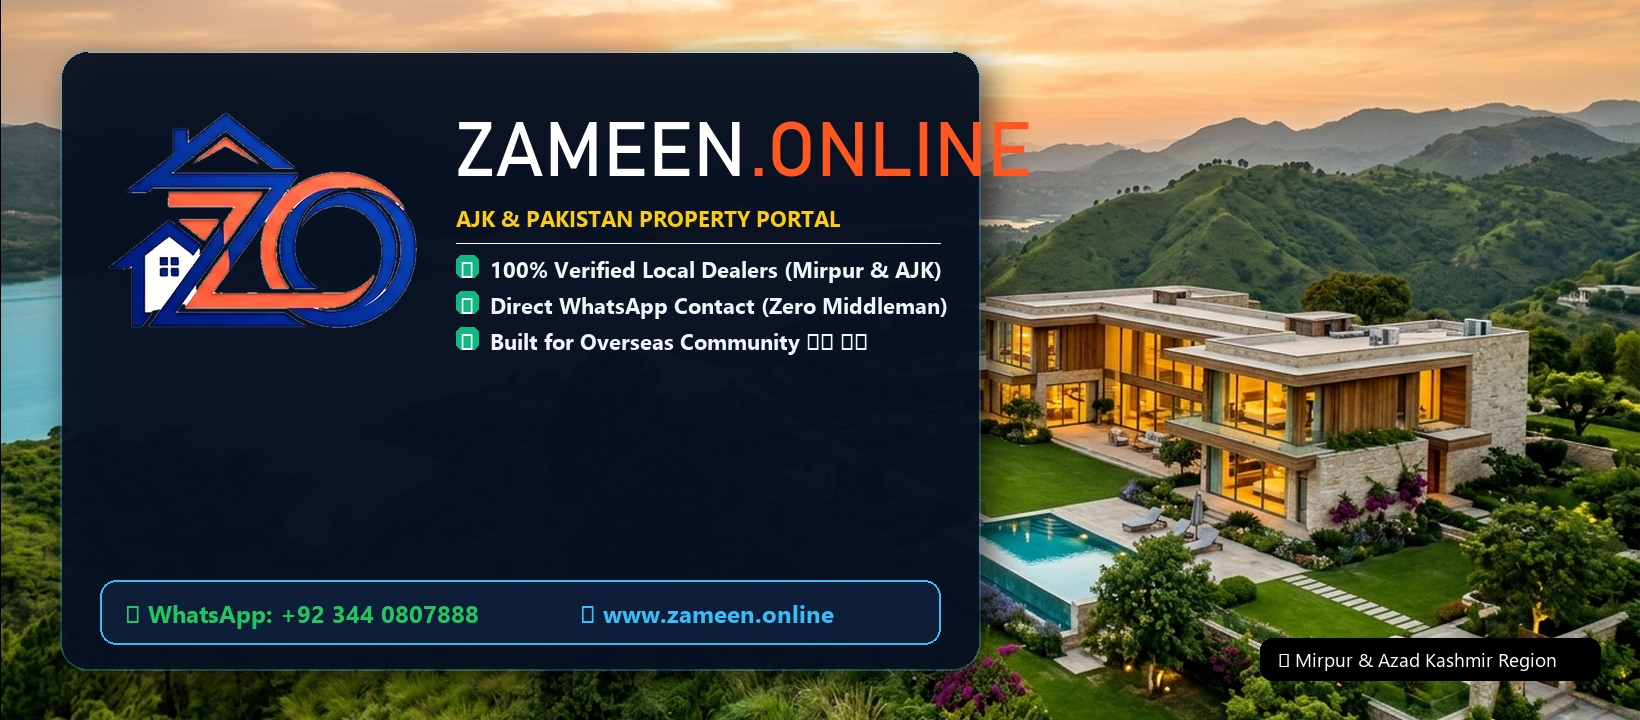
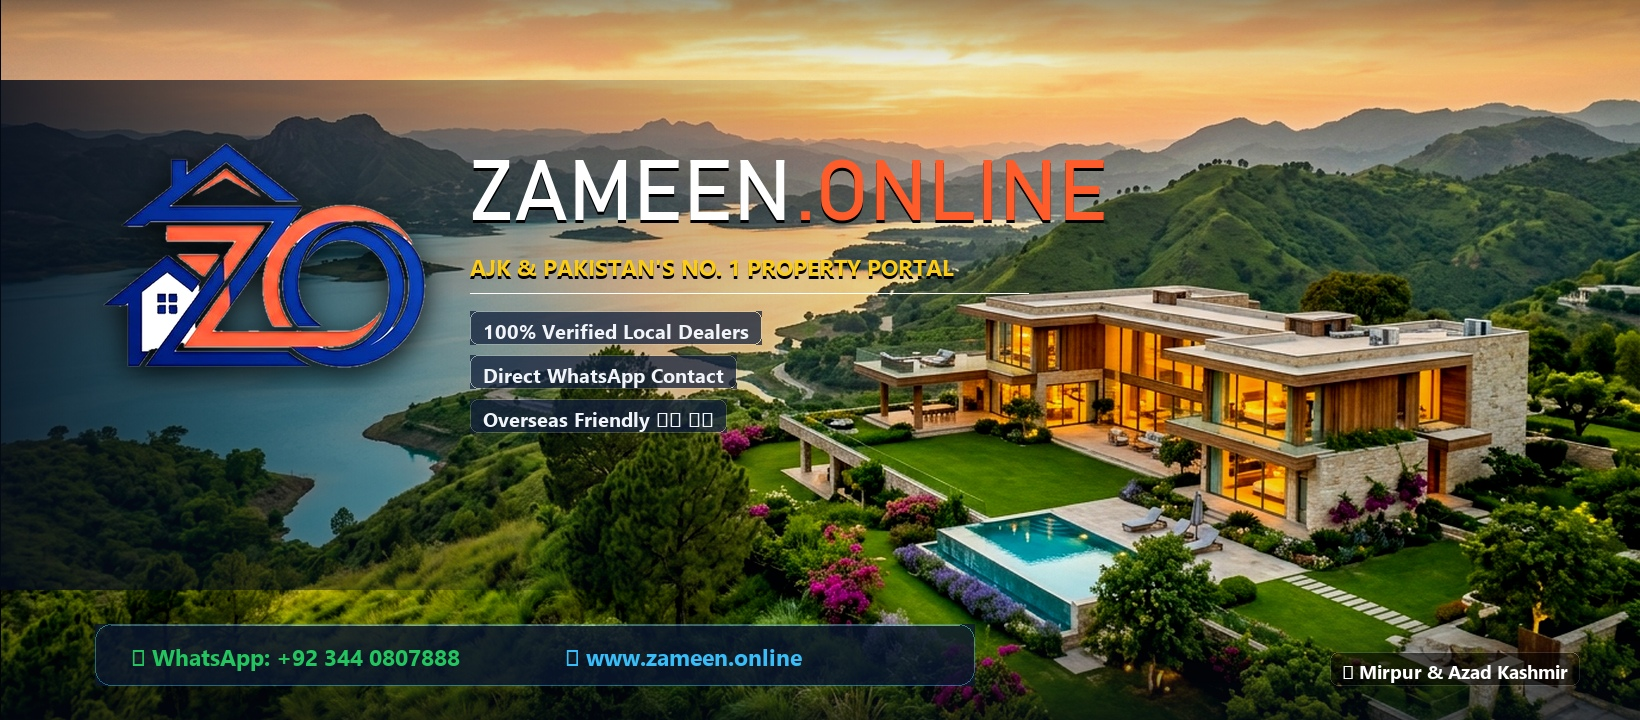
Enhance Facebook Cover with expert graphic design: seamless cinematic atmosphere, pristine typography, executive variant, and live preview studio

diff --git a/facebook-cover-preview.html b/facebook-cover-preview.html
@@ -1,0 +1,301 @@
+<!DOCTYPE html>
+<html lang="en">
+<head>
+  <meta charset="UTF-8">
+  <meta name="viewport" content="width=device-width, initial-scale=1.0">
+  <title>Zameen.online — Facebook Cover Preview Studio</title>
+  <link rel="icon" href="assets/img/favicon.svg" type="image/svg+xml">
+  <link rel="preconnect" href="https://fonts.googleapis.com">
+  <link rel="preconnect" href="https://fonts.gstatic.com" crossorigin>
+  <link href="https://fonts.googleapis.com/css2?family=Plus+Jakarta+Sans:wght@400;600;700;800;900&display=swap" rel="stylesheet">
+  <style>
+    :root {
+      --primary: #104396;
+      --accent: #f16544;
+      --dark: #080f1d;
+      --surface: #0f172a;
+      --border: #1e293b;
+      --text: #f8fafc;
+      --muted: #94a3b8;
+    }
+    * { box-sizing: border-box; margin: 0; padding: 0; }
+    body {
+      background: var(--dark);
+      color: var(--text);
+      font-family: 'Plus Jakarta Sans', system-ui, sans-serif;
+      padding: 30px 15px 60px;
+    }
+    .container {
+      max-width: 1100px;
+      margin: 0 auto;
+    }
+    header {
+      text-align: center;
+      margin-bottom: 35px;
+    }
+    h1 {
+      font-size: 32px;
+      font-weight: 900;
+      color: #fff;
+      margin-bottom: 8px;
+    }
+    p {
+      color: var(--muted);
+      font-size: 15px;
+    }
+    
+    /* Mock Facebook Page UI Wrapper */
+    .fb-mockup {
+      background: #18191a;
+      border: 1px solid #3a3b3c;
+      border-radius: 16px;
+      overflow: hidden;
+      box-shadow: 0 20px 50px rgba(0,0,0,0.6);
+      margin-bottom: 40px;
+    }
+    .fb-cover-container {
+      position: relative;
+      width: 100%;
+      height: 0;
+      padding-bottom: 43.9%; /* 1640 / 720 ratio */
+      background: #000;
+    }
+    .fb-cover-container img {
+      position: absolute;
+      top: 0;
+      left: 0;
+      width: 100%;
+      height: 100%;
+      object-fit: cover;
+    }
+    
+    .fb-profile-bar {
+      padding: 0 30px 20px;
+      position: relative;
+      display: flex;
+      justify-content: space-between;
+      align-items: flex-end;
+      flex-wrap: wrap;
+      gap: 20px;
+      background: #242526;
+      border-bottom: 1px solid #3a3b3c;
+    }
+    .fb-avatar-col {
+      display: flex;
+      align-items: flex-end;
+      gap: 20px;
+      margin-top: -60px;
+      z-index: 2;
+    }
+    .fb-avatar {
+      width: 140px;
+      height: 140px;
+      border-radius: 50%;
+      border: 5px solid #242526;
+      background: #fff;
+      overflow: hidden;
+      box-shadow: 0 4px 15px rgba(0,0,0,0.4);
+    }
+    .fb-avatar img {
+      width: 100%;
+      height: 100%;
+      object-fit: contain;
+    }
+    .fb-titles h2 {
+      font-size: 24px;
+      font-weight: 800;
+      color: #e4e6eb;
+      display: flex;
+      align-items: center;
+      gap: 8px;
+    }
+    .verified-badge {
+      background: #2e89ff;
+      color: #fff;
+      font-size: 11px;
+      padding: 2px 6px;
+      border-radius: 99px;
+    }
+    .fb-titles p {
+      font-size: 13px;
+      color: #b0b3b8;
+      margin-top: 2px;
+    }
+
+    .fb-actions {
+      display: flex;
+      gap: 10px;
+      margin-bottom: 5px;
+    }
+    .btn-fb {
+      background: #25D366;
+      color: #fff;
+      border: none;
+      padding: 10px 18px;
+      border-radius: 8px;
+      font-weight: 700;
+      font-size: 14px;
+      display: flex;
+      align-items: center;
+      gap: 8px;
+      cursor: pointer;
+    }
+    .btn-fb-sec {
+      background: #3a3b3c;
+      color: #e4e6eb;
+      border: none;
+      padding: 10px 16px;
+      border-radius: 8px;
+      font-weight: 600;
+      font-size: 14px;
+      cursor: pointer;
+    }
+
+    /* Switcher Controls */
+    .switcher-row {
+      display: flex;
+      gap: 12px;
+      justify-content: center;
+      margin-bottom: 25px;
+      flex-wrap: wrap;
+    }
+    .switch-btn {
+      background: #1e293b;
+      color: #cbd5e1;
+      border: 1px solid #334155;
+      padding: 10px 20px;
+      border-radius: 12px;
+      font-size: 13.5px;
+      font-weight: 700;
+      cursor: pointer;
+      transition: all 0.2s;
+    }
+    .switch-btn.active {
+      background: #104396;
+      color: #fff;
+      border-color: #3b82f6;
+    }
+
+    .download-card {
+      background: var(--surface);
+      border: 1px solid var(--border);
+      border-radius: 16px;
+      padding: 20px;
+      display: flex;
+      justify-content: space-between;
+      align-items: center;
+      flex-wrap: wrap;
+      gap: 15px;
+    }
+    .btn-download {
+      background: #104396;
+      color: #fff;
+      text-decoration: none;
+      padding: 12px 22px;
+      border-radius: 10px;
+      font-weight: 700;
+      font-size: 14px;
+      display: inline-flex;
+      align-items: center;
+      gap: 8px;
+    }
+    .btn-download:hover {
+      background: #0d3477;
+    }
+  </style>
+</head>
+<body>
+
+  <div class="container">
+    <header>
+      <h1>Facebook Cover Photo Studio</h1>
+      <p>Preview your new Facebook Cover Photo on a realistic Meta Page interface with your approved "ZO" avatar.</p>
+    </header>
+
+    <!-- Switcher -->
+    <div class="switcher-row">
+      <button class="switch-btn active" id="btn-var1" onclick="switchCover('assets/img/facebook-cover.jpg', this)">
+        ✨ Option 1: Master Cinematic Cover
+      </button>
+      <button class="switch-btn" id="btn-var2" onclick="switchCover('assets/img/facebook-cover-executive.jpg', this)">
+        🏛 Option 2: Executive Minimalist Cover
+      </button>
+      <button class="switch-btn" id="btn-var3" onclick="switchCover('assets/img/facebook-cover-natural-clean.jpg', this)">
+        🌄 Option 3: Clean Natural Landscape
+      </button>
+    </div>
+
+    <!-- Live Facebook Mockup -->
+    <div class="fb-mockup">
+      <div class="fb-cover-container">
+        <img id="coverImg" src="assets/img/facebook-cover.jpg" alt="Facebook Cover Preview">
+      </div>
+      <div class="fb-profile-bar">
+        <div class="fb-avatar-col">
+          <div class="fb-avatar">
+            <img src="assets/img/logo-icon-1024.jpg" alt="Zameen Online DP">
+          </div>
+          <div class="fb-titles">
+            <h2>Zameen Online <span class="verified-badge">✓ Verified</span></h2>
+            <p>@zameen.online • Real Estate Service • Mirpur AJK, Pakistan</p>
+          </div>
+        </div>
+        <div class="fb-actions">
+          <button class="btn-fb">💬 WhatsApp</button>
+          <button class="btn-fb-sec">Contact Us</button>
+        </div>
+      </div>
+    </div>
+
+    <!-- Direct Download Panel -->
+    <div class="download-card">
+      <div>
+        <h3 style="font-size: 16px; font-weight: 800; color: #fff; margin-bottom: 4px;" id="dlTitle">
+          Option 1: Master Cinematic Cover (1640 × 720 HD)
+        </h3>
+        <p style="font-size: 13px; color: var(--muted);" id="dlDesc">
+          Seamless atmospheric depth, sharp typography, frosted feature pills, and WhatsApp pill over natural Azad Kashmir landscape.
+        </p>
+      </div>
+      <a id="dlLink" href="assets/img/facebook-cover.jpg" download="Zameen_Online_Facebook_Cover.jpg" class="btn-download">
+        ⬇ Download Cover Photo (.jpg)
+      </a>
+    </div>
+
+    <div style="text-align: center; margin-top: 30px;">
+      <a href="brand-assets.html" style="color: #60a5fa; text-decoration: none; font-size: 13.5px; font-weight: 700;">
+        ← Back to Brand Assets Kit
+      </a>
+    </div>
+
+  </div>
+
+  <script>
+    function switchCover(src, btn) {
+      document.getElementById('coverImg').src = src;
+      document.querySelectorAll('.switch-btn').forEach(b => b.classList.remove('active'));
+      btn.classList.add('active');
+
+      const dlLink = document.getElementById('dlLink');
+      const dlTitle = document.getElementById('dlTitle');
+      const dlDesc = document.getElementById('dlDesc');
+
+      dlLink.href = src;
+
+      if (src.includes('executive')) {
+        dlTitle.textContent = 'Option 2: Executive Minimalist Cover (1640 × 720 HD)';
+        dlDesc.textContent = 'Clean wide layout, 280px grand floating ZO logo mark, and single floating pill dock.';
+        dlLink.download = 'Zameen_Online_Cover_Executive.jpg';
+      } else if (src.includes('clean')) {
+        dlTitle.textContent = 'Option 3: Pure Natural Landscape (1640 × 720 HD)';
+        dlDesc.textContent = 'Unbranded high-definition landscape photography of Azad Kashmir hills, lake and villa.';
+        dlLink.download = 'Zameen_Online_Cover_Landscape.jpg';
+      } else {
+        dlTitle.textContent = 'Option 1: Master Cinematic Cover (1640 × 720 HD)';
+        dlDesc.textContent = 'Seamless atmospheric depth, sharp typography, frosted feature pills, and WhatsApp pill.';
+        dlLink.download = 'Zameen_Online_Facebook_Cover.jpg';
+      }
+    }
+  </script>
+</body>
+</html>
